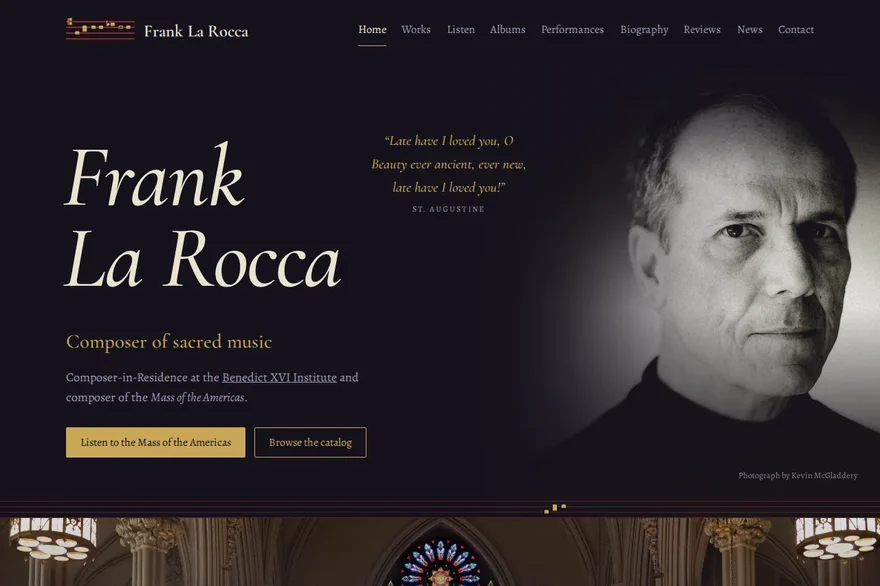
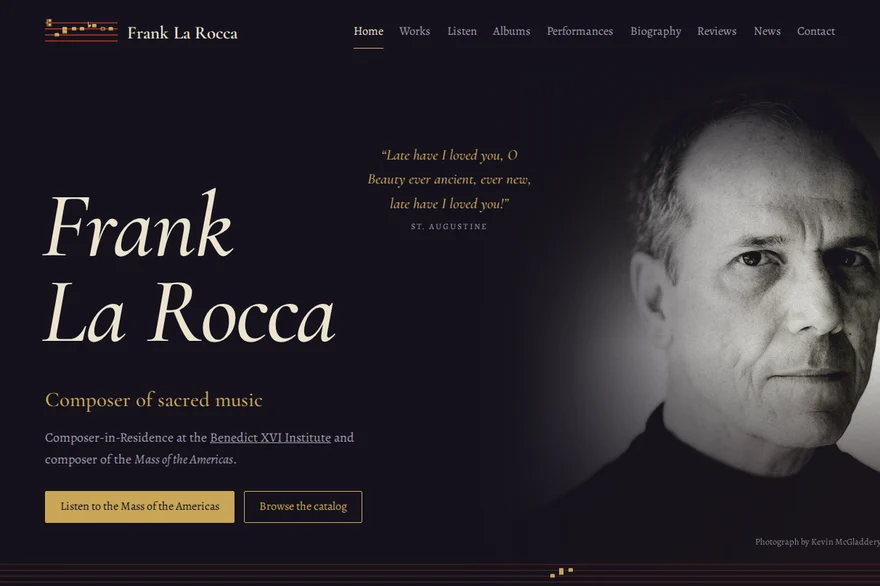
Home: rewrite the 'also built for' line; recrop Frank La Rocca screenshots to the hero with its staff rule

diff --git a/index.html b/index.html
@@ -324,7 +324,7 @@
     <ul class="for-chips">
       <li>Stylists &amp; Salons</li><li>Restaurants</li><li>Contractors &amp; Trades</li><li>Law &amp; Consulting</li><li>Medical &amp; Wellness</li><li>Fitness Studios</li><li>Real Estate</li><li>Retail</li>
     </ul>
-    <p class="for-any">Not on the list? If your business needs a site that works on a phone, it belongs here.</p>
+    <p class="for-any">Not on the list? Tell me what you do. Every site starts the same way: what a customer needs to find, and how fast.</p>
   </div>
 </section>
 
